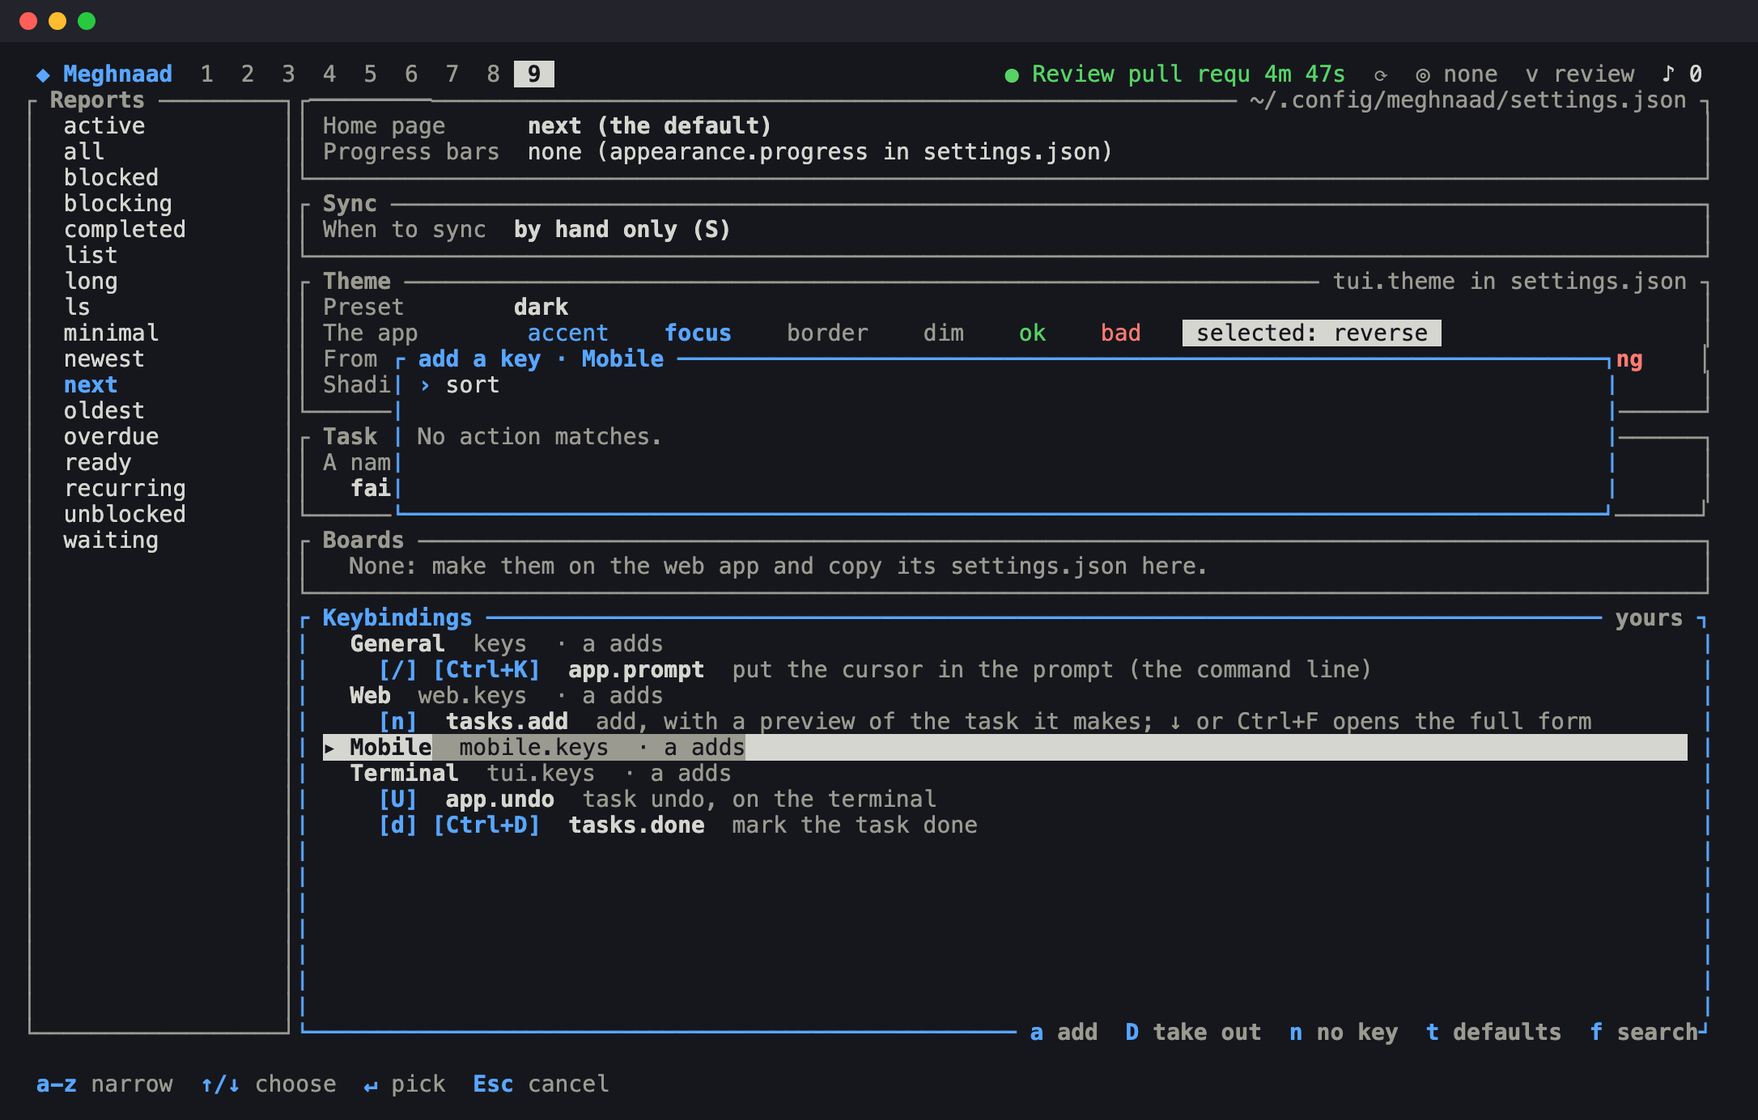
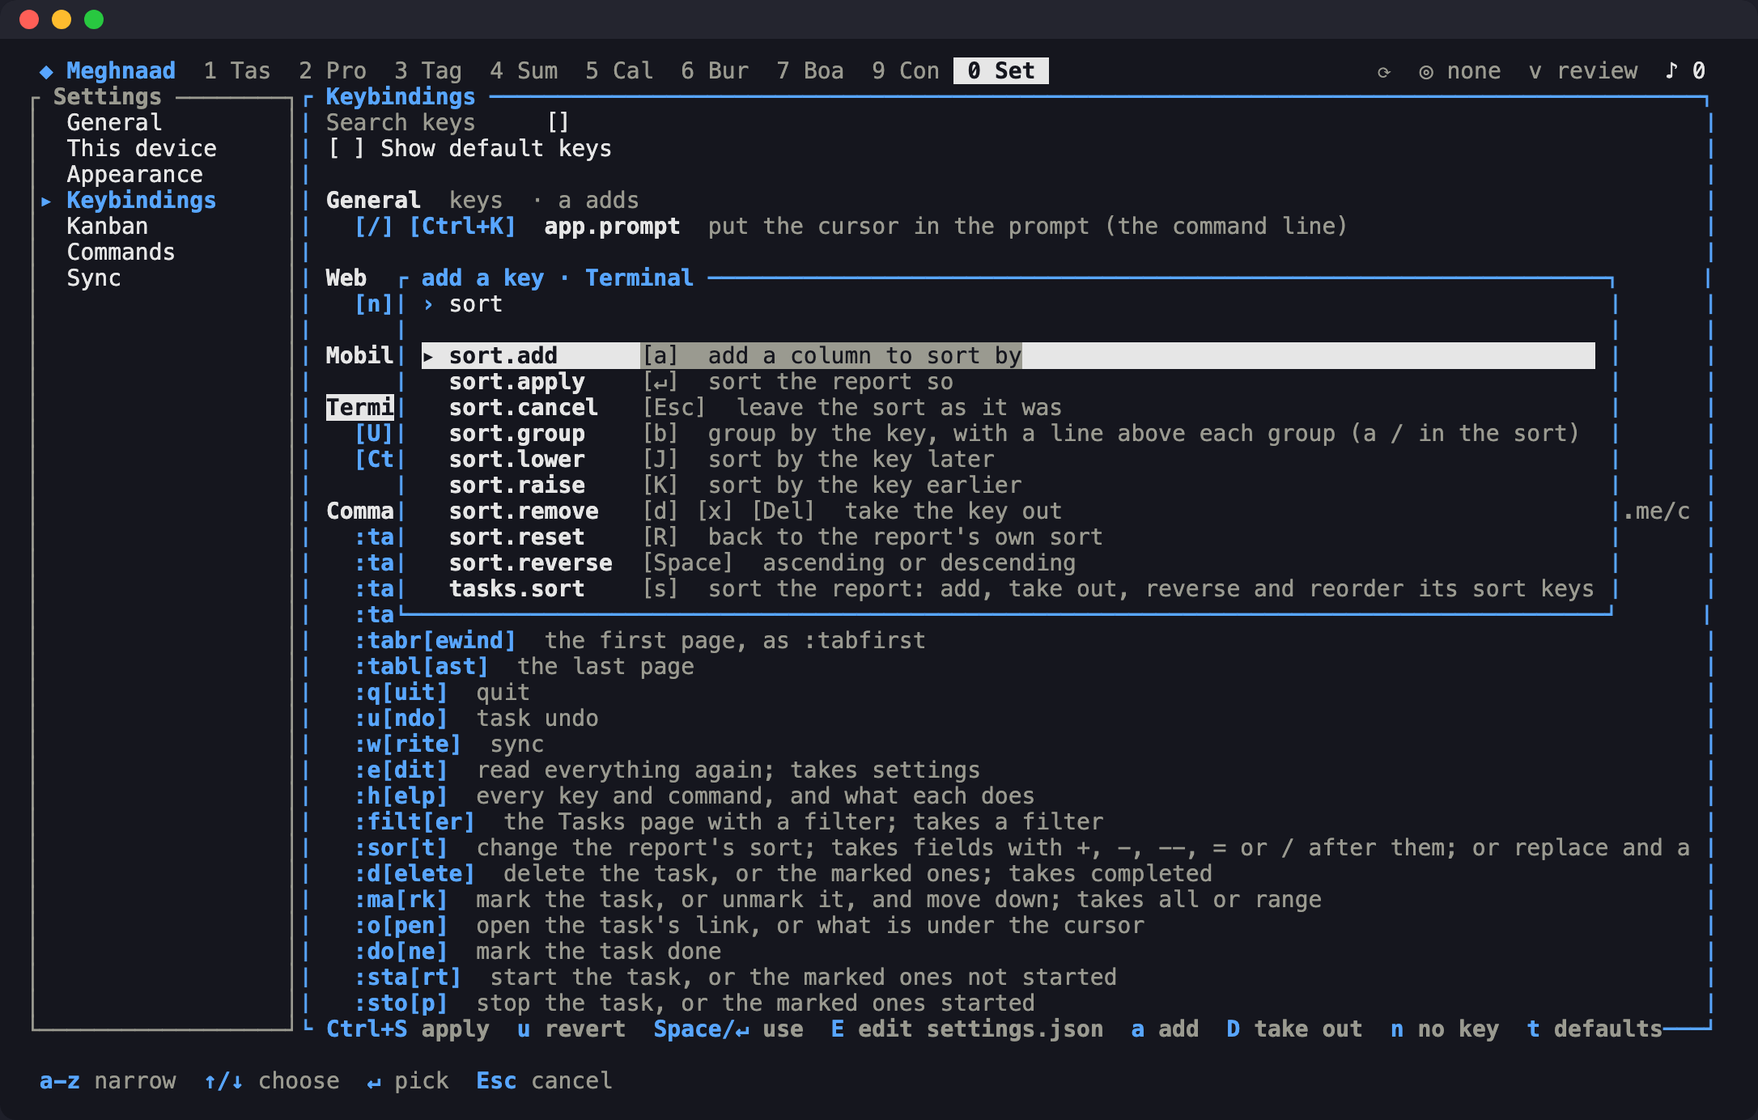
feat(terminal): Ctrl+N/Ctrl+P between a form's fields, Tab where nothing completes
In the task form and the Settings forms, Ctrl+N and Ctrl+P move between fields from any field, Tab and Shift+Tab
do too where the field does not complete, and in a field of several lines ↑ ↓ move between its lines before going
on. Spec 0033 done: its What now matches the picker and the input as built. The Keybindings screenshots show the
new Settings pages.

diff --git a/crates/tui/src/app/tests.rs b/crates/tui/src/app/tests.rs
@@ -281,6 +281,44 @@ fn alt_enter_starts_a_new_line_in_a_free_text_uda_and_nowhere_else() {
 }
 
 #[test]
+fn arrows_move_inside_a_field_of_several_lines_and_ctrl_n_p_between_fields() {
+    let mut app = app();
+    app.cfg = tc_core::taskrc::parse("uda.notes.type=string\n").config;
+    app.key(key(KeyCode::Char('a')));
+    app.key(key(KeyCode::Down));
+    let sel = |app: &App| match &app.mode {
+        Mode::Form(f) => (f.fields.get(f.sel).map(|x| x.key.clone()).unwrap_or_default(), f.sel),
+        _ => panic!("expected the form"),
+    };
+    let Mode::Form(f) = &mut app.mode else {
+        panic!("expected the form");
+    };
+    let notes = f.fields.iter().position(|x| x.key == "notes").unwrap();
+    f.sel = notes;
+    typing(&mut app, "one");
+    app.key(KeyEvent::new(KeyCode::Enter, KeyModifiers::ALT));
+    typing(&mut app, "two");
+    // ↑ goes to the first line of the field, and only then to the field above.
+    app.key(key(KeyCode::Up));
+    assert_eq!(sel(&app), ("notes".to_owned(), notes));
+    app.key(key(KeyCode::Up));
+    assert_eq!(sel(&app).1, notes - 1);
+    // Ctrl+N and Ctrl+P go between fields whatever the field holds.
+    let ctrl = |c| KeyEvent::new(KeyCode::Char(c), KeyModifiers::CONTROL);
+    app.key(ctrl('n'));
+    assert_eq!(sel(&app).1, notes);
+    app.key(ctrl('n'));
+    assert_eq!(sel(&app).1, notes + 1);
+    app.key(ctrl('p'));
+    app.key(ctrl('p'));
+    assert_eq!(sel(&app).1, notes - 1);
+    let Mode::Form(f) = &app.mode else {
+        panic!("expected the form");
+    };
+    assert_eq!(f.field("notes").map(|x| x.input.line.as_str()), Some("one\ntwo"));
+}
+
+#[test]
 fn a_form_that_cannot_be_saved_stays_open_and_says_why() {
     let mut app = app();
     app.key(key(KeyCode::Char('a')));
@@ -1028,4 +1066,23 @@ fn o_in_the_info_lists_its_links_and_the_tasks_around_it_and_a_task_opens_with_e
     a.key(key(KeyCode::Char('j')));
     a.key(key(KeyCode::Enter));
     assert_eq!(a.info_trail, vec!["u-1".to_owned()]);
+}
+
+#[test]
+fn tab_goes_to_the_next_field_where_nothing_completes() {
+    let mut app = app();
+    app.key(key(KeyCode::Char('a')));
+    app.key(key(KeyCode::Down));
+    let at = |app: &App| match &app.mode {
+        Mode::Form(f) => f.fields.get(f.sel).map(|x| x.key.clone()).unwrap_or_default(),
+        _ => panic!("expected the form"),
+    };
+    assert_eq!(at(&app), "description");
+    app.key(key(KeyCode::Tab));
+    assert_eq!(at(&app), "project");
+    // The project completes: Tab stays on it.
+    app.key(key(KeyCode::Tab));
+    assert_eq!(at(&app), "project");
+    app.key(KeyEvent::new(KeyCode::Char('p'), KeyModifiers::CONTROL));
+    assert_eq!(at(&app), "description");
 }

diff --git a/crates/tui/src/completer.rs b/crates/tui/src/completer.rs
@@ -81,6 +81,41 @@ impl Input {
         self.caret = self.line.encode_utf16().count();
     }
 
+    /// The caret to the line above, at the same column or the line's end. False on the first line: nothing moved.
+    pub fn up(&mut self) -> bool {
+        let at = byte_at(&self.line, self.caret);
+        let Some(start) = self.line[..at].rfind('\n') else {
+            return false;
+        };
+        let col = self.line[start + 1..at].chars().count();
+        let above = self.line[..start].rfind('\n').map_or(0, |i| i + 1);
+        self.caret_to(above, start, col);
+        true
+    }
+
+    /// The caret to the line below, at the same column or the line's end. False on the last line: nothing moved.
+    pub fn down(&mut self) -> bool {
+        let at = byte_at(&self.line, self.caret);
+        let Some(end) = self.line[at..].find('\n').map(|i| at + i) else {
+            return false;
+        };
+        let col = self.line[self.line[..at].rfind('\n').map_or(0, |i| i + 1)..at]
+            .chars()
+            .count();
+        let below_end = self.line[end + 1..].find('\n').map_or(self.line.len(), |i| end + 1 + i);
+        self.caret_to(end + 1, below_end, col);
+        true
+    }
+
+    /// The caret `col` characters into the line from byte `start` to byte `end`, or at its end.
+    fn caret_to(&mut self, start: usize, end: usize, col: usize) {
+        let to = self.line[start..end]
+            .char_indices()
+            .nth(col)
+            .map_or(end, |(i, _)| start + i);
+        self.caret = self.line[..to].encode_utf16().count();
+    }
+
     /// Delete the word before the caret, as Ctrl+W does in a shell.
     pub fn delete_word(&mut self) {
         let at = byte_at(&self.line, self.caret);
@@ -204,6 +239,23 @@ mod tests {
         assert_eq!(i.line, "ab");
         i.delete_word();
         assert_eq!((i.line.as_str(), i.caret), ("", 0));
+    }
+
+    #[test]
+    fn up_and_down_go_between_lines_keeping_the_column() {
+        let mut i = Input::new("one\nab\nthree");
+        assert!(!i.down(), "the last line: nothing below");
+        assert_eq!(i.caret_chars(), 12);
+        assert!(i.up());
+        assert_eq!(i.caret_chars(), 6, "the end of the shorter line");
+        assert!(i.up());
+        assert_eq!(i.caret_chars(), 2);
+        assert!(!i.up(), "the first line: nothing above");
+        i.right();
+        assert!(i.down());
+        assert_eq!(i.caret_chars(), 6);
+        let mut single = Input::new("a😀");
+        assert!(!single.up() && !single.down());
     }
 
     #[test]

diff --git a/crates/tui/src/app/prompt.rs b/crates/tui/src/app/prompt.rs
@@ -112,9 +112,18 @@ impl App {
             }
             KeyCode::Enter => return self.save_form(f),
             KeyCode::Char('s') if ctrl => return self.save_form(f),
-            KeyCode::Down => f.next(),
-            KeyCode::Up => f.prev(),
-            KeyCode::Tab | KeyCode::BackTab => self.complete_field(&mut f, key.code == KeyCode::BackTab),
+            KeyCode::Char('n') if ctrl => f.next(),
+            KeyCode::Char('p') if ctrl => f.prev(),
+            // In a field of several lines ↑ ↓ go between its lines, and on to the next field only past the last.
+            KeyCode::Down if !f.current().is_some_and(|x| x.multiline && x.input.down()) => f.next(),
+            KeyCode::Up if !f.current().is_some_and(|x| x.multiline && x.input.up()) => f.prev(),
+            KeyCode::Down | KeyCode::Up => {}
+            // Tab completes where the field completes (a project, a date, tags), else goes to the next field.
+            KeyCode::Tab | KeyCode::BackTab if f.current().is_some_and(|x| !x.locked && x.completes_as().is_some()) => {
+                self.complete_field(&mut f, key.code == KeyCode::BackTab);
+            }
+            KeyCode::BackTab => f.prev(),
+            KeyCode::Tab => f.next(),
             _ => {
                 if let Some(field) = f.current() {
                     edit_field(field, key, ctrl);

diff --git a/crates/tui/src/ui.rs b/crates/tui/src/ui.rs
@@ -220,7 +220,7 @@ fn screen(f: &mut Frame, app: &App) {
             f.render_widget(hints(keys), dock);
         }
         Mode::Form(_) => f.render_widget(
-            hints("↑/↓ field · Tab complete · ↵ save · Alt+↵ a new line in a note · Esc cancel · Ctrl+U clear"),
+            hints("Ctrl+N/P or ↑/↓ field · Tab complete or next · ↵ save · Alt+↵ a new line in a note · Esc cancel · Ctrl+U clear"),
             dock,
         ),
         Mode::Prompt(p) => prompt(f, p, main, dock),
@@ -243,7 +243,7 @@ fn screen(f: &mut Frame, app: &App) {
         Mode::Choose { .. } => f.render_widget(hints("↑/↓ choose · ↵ keep it · Esc cancel"), dock),
         Mode::QuitAsk => f.render_widget(hints("a apply and quit · d drop and quit · any other key stays"), dock),
         Mode::SettingsForm(_) => f.render_widget(
-            hints("↑/↓ field · Tab complete or next · ↵ keep · Esc cancel · Ctrl+U clear"),
+            hints("Ctrl+N/P or ↑/↓ field · Tab complete or next · ↵ keep · Esc cancel · Ctrl+U clear"),
             dock,
         ),
         Mode::Reminders(b) => {

diff --git a/crates/tui/src/app/settings_form.rs b/crates/tui/src/app/settings_form.rs
@@ -1,6 +1,6 @@
 //! A row of a Settings list in a box, its fields together (spec 0033, the map's "form"): a task command, a kanban
 //! column, a field transformation. Each field is checked as it is typed; `Enter` keeps the row in the page's draft,
-//! `Esc` drops it. `↑` `↓` go between the fields, and `Tab` completes where the field takes a command line or a filter,
+//! `Esc` drops it. `Ctrl+N` `Ctrl+P` (or `↑` `↓`) go between the fields, and `Tab` completes where the field takes a command line or a filter,
 //! as in the task's form.
 
 use super::{settings, Action, App, Mode, TaskCommand};
@@ -267,6 +267,8 @@ impl App {
             KeyCode::Char('s') if ctrl => return self.keep_form(f),
             KeyCode::Down => f.at = (f.at + 1) % n,
             KeyCode::Up => f.at = (f.at + n - 1) % n,
+            KeyCode::Char('n') if ctrl => f.at = (f.at + 1) % n,
+            KeyCode::Char('p') if ctrl => f.at = (f.at + n - 1) % n,
             KeyCode::Tab | KeyCode::BackTab => {
                 let back = key.code == KeyCode::BackTab;
                 let prefix = f.fields.get(f.at).and_then(|x| x.prefix);

diff --git a/crates/tui/src/app/mod.rs b/crates/tui/src/app/mod.rs
@@ -478,7 +478,7 @@ pub fn now() -> i64 {
 /// The end of the list of keys: what typing in a box or the form takes, which is not in the keymap.
 const HELP_TAIL: &str = "\
 The form
-  ↑/↓ a field · Tab complete · Space starts the task (on Start) · ↵ save · Esc cancel
+  Ctrl+N/Ctrl+P or ↑/↓ a field (in a note of several lines ↑/↓ go between its lines) · Tab complete, or the next field where nothing completes · Alt+↵ a new line in a note · Space starts the task (on Start) · ↵ save · Esc cancel
 
 The command line
   Tab/Shift+Tab complete · Ctrl+A/E start/end · Ctrl+W delete a word · Ctrl+U clear · Esc cancel

diff --git a/specs/0033-terminal-settings-pages.md b/specs/0033-terminal-settings-pages.md
@@ -1,6 +1,6 @@
 # 0033: The terminal app's Settings as pages
 
-- **Status:** in progress
+- **Status:** done
 - **Created:** 2026-11-26
 - **Layer:** 2 (UI)
 - **Front ends:** terminal; web for one switch (AI agents) that saved at once; the phone checked, already as the map
@@ -46,8 +46,8 @@ The web's controls, drawn in the terminal:
 | Web | Terminal |
 | --- | --- |
 | a checkbox (`label.pick`) | `[x] Card icons` / `[ ] Card icons`; `Space` or `Enter` switches it |
-| a `select`, with groups (`optgroup`) | the value and a `▾`; `Enter` opens a picker of the choices under their group headings (Reports, Boards, Kanbans), typing narrows it |
-| a text or number input | `Label  [value     ]`; `Enter` edits it in place on the row, `Enter` keeps it, `Esc` drops it |
+| a `select`, with groups (`optgroup`) | the value and a `▾`; `Enter` opens a picker of the choices, each with its group's name beside it (`report  list`); `j` `k` move, `Enter` takes one |
+| a text or number input | `Label  [value     ]`; `Enter` edits it on the bottom line, `Enter` keeps it, `Esc` drops it |
 | a list of rows (commands, columns, transformations) | a row each, its fields in columns as the web lays them out; `a` adds one, `e`/`Enter` changes it, `D` removes it, `K` `J` move it where the web has up and down |
 | a row's form of several fields | a **modal** with every field at once (below) |
 | Apply, Revert edits | as on the web and the phone: edits wait until applied. `Ctrl+S` applies the page (the border says `Ctrl+S apply` while there are edits, then `Saved`), `u` reverts its edits; leaving a page keeps them, as a tab does. An action (Turn Kanban off, Write them, Sync now) happens at once |
@@ -81,7 +81,8 @@ The pages, part by part as on the web:
 A form of several fields opens as a box over the page, its fields laid out as the web's row is (a label over or before
 each input): a task command (name, label, command, icon), a kanban column (name, filter, move), a transformation (match,
 replace, fields, condition). Every field is checked as it is typed and its problem shown under it (the name rule of spec
-0032, the line split, the regex); `Tab` and `Shift+Tab` move between fields; `Enter` on the last field, or `Ctrl+S`,
+0032, the line split, the regex); `Tab` and `Shift+Tab` move between fields, except in a field that completes, where `Tab` completes; `Ctrl+N` and `Ctrl+P`
+move between fields in any field, and `↑` `↓` too (inside a field of several lines they move between its lines); `Enter` on the last field, or `Ctrl+S`,
 keeps the row in the page's edits (applied with the page, as on the web); `Esc` drops it. A field that completes today
 (a command line, a filter, a move) keeps its completion. A one-value setting stays a picker or an inline input.
 
@@ -136,7 +137,7 @@ in the device's file), instead of saving as it is switched.
 - [x] The left pane on Settings lists the map's pages for the terminal; the main pane shows the one chosen, full height.
 - [x] Edits wait for `Ctrl+S` on every page, with the dot and Revert as on the web; actions happen at once.
 - [x] The web's AI agents switch waits for This device's Apply like the rest of the page.
-- [ ] Each page has the web panel's parts in its order, each setting drawn with the control above for the web's control.
+- [x] Each page has the web panel's parts in its order, each setting drawn with the control above for the web's control.
 - [x] Appearance has the theme, Cards (with Nerd Font), IDs, progress bars and transformations; General the home page and the file.
 - [x] A task command, a kanban column and a transformation are added and changed in a modal, checked as typed.
 - [x] A long section (many task commands, keys, kanban rows) scrolls within its page and the selection stays in view.
@@ -148,6 +149,8 @@ in the device's file), instead of saving as it is switched.
 - Later, its own spec: one shared routine for applying settings (the edit merged into the file as read, the save, then
   the sync), in `tc_core`, which every front end calls, so applying, syncing and two devices saving at once behave the
   same everywhere. The merge is already one set of cases (`fixtures/settings-kept.json`); the routine is not.
+- **What** says `l` gives the page the focus and `h` gives it back to the list; as built only `Tab` (and `Enter`,
+  `Esc`) do. uroybd to choose: bind `h` `l` in the keymap, or change **What** to `Tab`.
 
 ## Implementation notes
 
@@ -190,3 +193,10 @@ in the device's file), instead of saving as it is switched.
     input in place, the picker that narrows under headings, `Tab` between a form's fields): uroybd to choose between
     building them and changing **What**. The screenshots in `docs/screenshots/terminal-keybindings*.png` still show the
     old stacked sections.
+- 2026-11-26 (after 0.8.65): uroybd changed **What** to match the terminal as built: a picker naming each choice's
+  group, an input edited on the bottom line. On moving between a form's fields, uroybd chose not to rely on `↑` `↓`
+  alone, since a field of several lines needs them: `Ctrl+N` `Ctrl+P` move between fields in any field, `Tab`
+  `Shift+Tab` too where the field does not complete, and in a field of several lines `↑` `↓` move between its lines
+  (`Input::up`/`down`, `completer.rs`). The task form (`prompt.rs`) follows the same rule. Tests: `completer.rs`,
+  `app/tests.rs`. Docs: `docs/terminal.md`, the `?` help, the bottom line's hints. Done. The screenshots of the
+  keybindings page are still the old ones.

diff --git a/docs/terminal.md b/docs/terminal.md
@@ -274,10 +274,11 @@ Tasks page clears them, and they are cleared after an action.
 The web app's task form, in a box over the page: a line for each part of a task, its name on the left. Description,
 project, priority, due, wait, scheduled, until, repeat, tags (space separated), each UDA your taskrc defines, and what it
 depends on (task ids); for a new task, whether to start it now and a note, and for one that exists, an annotation to add
-under the ones it has. `↑` `↓` go from line to line, `Tab` completes the line's word as the command line would
-(`project:Ho` → `project:Home`), `Space` ticks Start, `Enter` saves and `Esc` leaves. A string UDA with no `values`
+under the ones it has. `Ctrl+N` and `Ctrl+P` (or `↑` `↓`) go from line to line, `Tab` completes the line's word as the command line would
+(`project:Ho` → `project:Home`) and goes to the next line where nothing completes (`Shift+Tab` back), `Space` ticks Start, `Enter` saves and `Esc` leaves. A string UDA with no `values`
 and the note can hold several lines, as on the web and the phone: `Alt+Enter` starts a new one, and each shows under
-the one before. The `A` box takes `Alt+Enter` too, and a note of several lines is sent whole, its line breaks kept.
+the one before; in such a field `↑` `↓` move between its lines, and on to the next line of the form only past its first
+or last. The `A` box takes `Alt+Enter` too, and a note of several lines is sent whole, its line breaks kept.
 
 A date is typed as `task` takes it (`fri`, `eom`, `2026-11-20`, `2026-11-20T14:30`, `tomorrow+19h`); an empty date
 field, when chosen, lists these examples with today in your `dateformat`. What is typed is shown after it as `task` will
@@ -543,7 +544,7 @@ settings a row each, each with a faint line on what it does and its problems in 
 | choice | `Home page  next ▾` | `Enter` opens its list; `Enter` there picks one |
 | input | `min  [0]` | `Enter` edits it on the bottom line |
 | a list's rows | a row each, its fields in columns | `a` adds one, `Enter` or `e` changes it, `D` deletes it, `K` `J` move a column |
-| a row of several fields | a box over the page with every field | `↑` `↓` between fields, `Tab` completes (a command line, a filter) or goes to the next, `Enter` or `Ctrl+S` keeps the row, `Esc` drops it; each field's problem shows under it as you type |
+| a row of several fields | a box over the page with every field | `Ctrl+N` `Ctrl+P` (or `↑` `↓`) between fields, `Tab` completes (a command line, a filter) or goes to the next, `Enter` or `Ctrl+S` keeps the row, `Esc` drops it; each field's problem shows under it as you type |
 | an action | `› Edit it in $VISUAL or $EDITOR` | `Enter` runs it |
 
 **Edits wait until applied**, as on the web and the phone. An edit shows at once on its page, and the page's name gets a
@@ -565,7 +566,7 @@ closes.
 | Commands | Your task commands, a row each (name, label, command): `a` adds one and `Enter` or `e` changes one in its box (name, label, command, icon; a label left empty is the name made words, and a name may not be a command's, spec 0032), `D` deletes it. Then your taskrc's aliases; their icons are chosen on the web or the phone |
 | Sync | When to sync, a choice (`y`) ([Sync](#sync)) |
 
-![The Keybindings page: your keys, under General, Web, Mobile and Terminal](screenshots/terminal-keybindings.png)
+![The Keybindings page: search and the defaults switch, your keys under General, Web, Mobile and Terminal, then the : commands](screenshots/terminal-keybindings.png)
 
 `a` opens a box of the section's actions, each with the keys it has now; typing narrows it and `Enter` picks one. Then
 the next key you press is the one to add (any key but `Esc`, so one the app already uses can be given too), and `Enter`

diff --git a/docs/settings-map.md b/docs/settings-map.md
@@ -17,7 +17,7 @@ Each setting is one of these. The front ends draw them each in their own way, an
 | **choice**: one of a list | a `select`, its choices under group headings | a dropdown menu | the value and `▾`; `Enter` opens a picker, each choice named with its group (`report  list`) |
 | **input**: text or a number | an input with its label before it | an outlined text field with its label | `Label  [value]`; `Enter` edits it on the bottom line |
 | **rows**: a list of records | a row each, its fields side by side; remove and move buttons; **Add a …** below | the same, stacked on a phone | a row each, its fields in columns; `a` adds, `e` changes, `D` removes, `K` `J` move |
-| **form**: one row's fields together | inline in the row | inline in the row | a **modal** with every field (`↑` `↓` between them, `Tab` completes) |
+| **form**: one row's fields together | inline in the row | inline in the row | a **modal** with every field (`Ctrl+N` `Ctrl+P` or `↑` `↓` between them, `Tab` completes or goes on) |
 | **picker**: a long list to pick from (icons, actions, holidays) | a drawer | a bottom sheet | a picker box |
 | **action**: does something now | a button | a button | a key, named in the border |
 

diff --git a/specs/README.md b/specs/README.md
@@ -65,5 +65,5 @@ A spec is never deleted or renumbered: a later one that replaces it says `Supers
 | 0030 | [Conditional transformations](0030-conditional-transformations.md) | done | 2 (UI), shared transform helper | all | Built |
 | 0031 | [Agents in the web app (WebMCP tools and llms.txt)](0031-agents-in-the-web-app.md) | done | 2 (UI) | web | Built; not tried in a browser with WebMCP on |
 | 0032 | [A label for each task command](0032-task-command-labels.md) | done | 2 (UI) | web, Android, terminal | Task 06efbdfc; also: a name can't be a command |
-| 0033 | [The terminal app's Settings as pages](0033-terminal-settings-pages.md) | in progress | 2 (UI) | terminal, web | Built; three control details to decide |
+| 0033 | [The terminal app's Settings as pages](0033-terminal-settings-pages.md) | done | 2 (UI) | terminal, web | Built; form keys `Ctrl+N`/`Ctrl+P`, `Tab` where nothing completes |
 | 0034 | [A UDA's choices drawn as pills](0034-uda-value-pills.md) | done | 2 (UI) | all | Built 2026-11-26; also: short string UDAs inline on cards (30 characters) |
